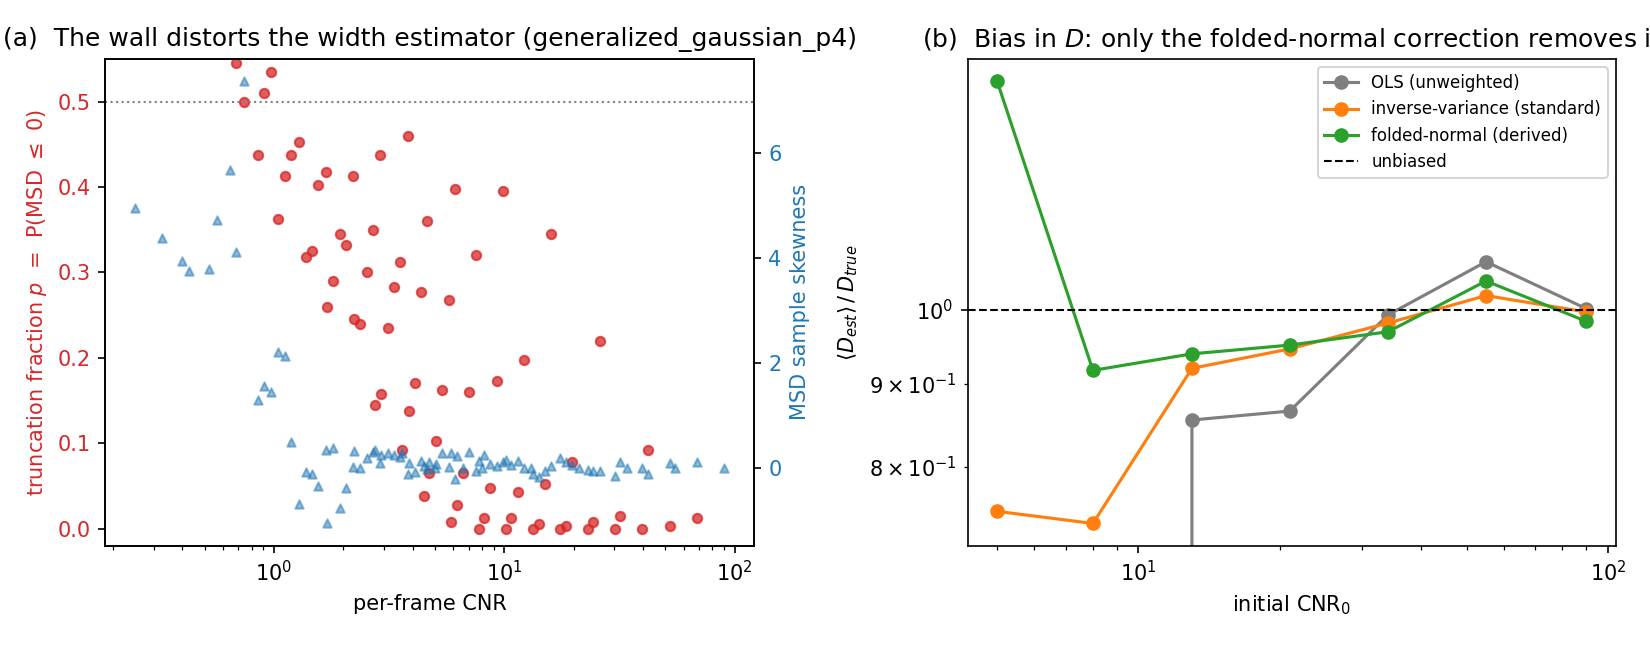
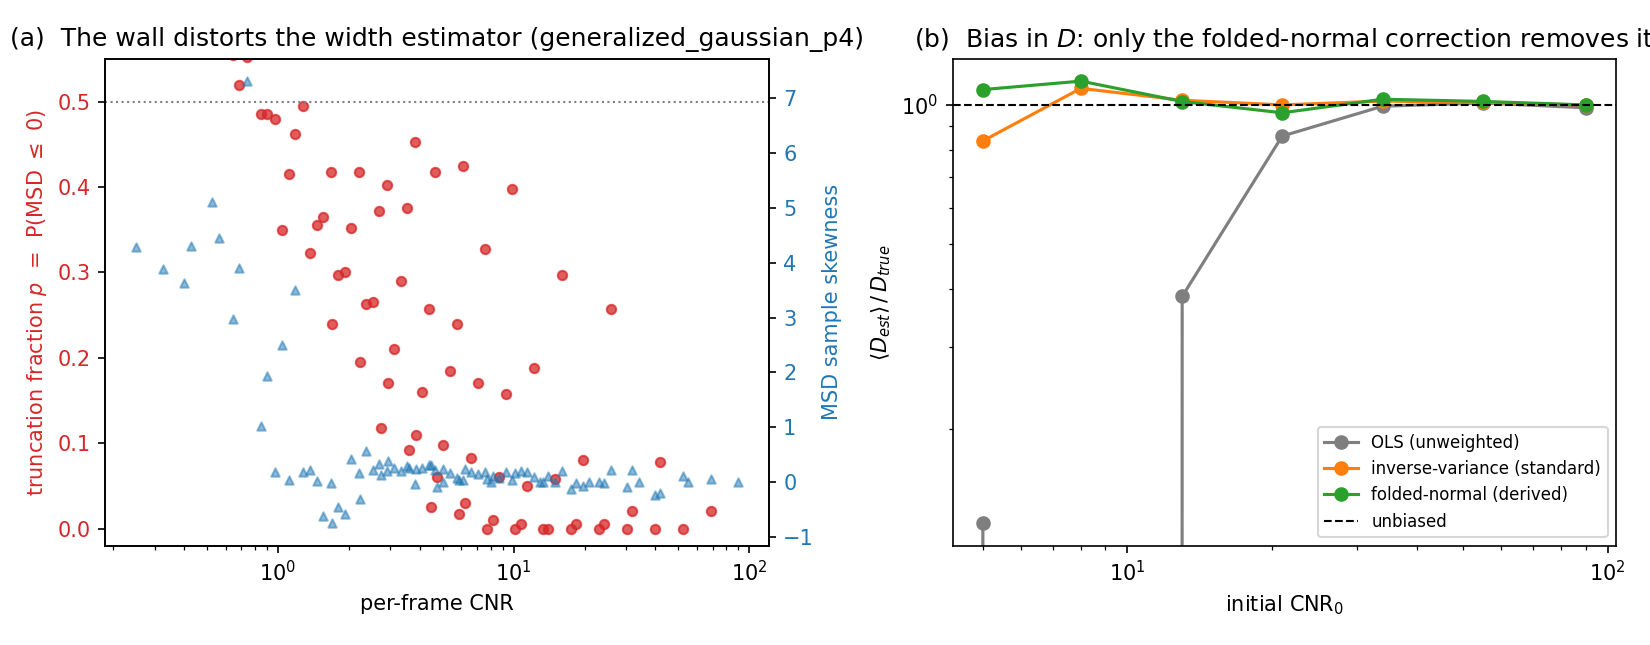
Regenerate the POC tables with the D-free calibration and combined SE, and print a computed verdict per scheme in place of the fixed reading (no folded-normal cell beyond 2 SE on any shape)

diff --git a/experiments/poc-bias-correction/poc_demo.py b/experiments/poc-bias-correction/poc_demo.py
@@ -37,10 +37,13 @@ from width_debias.bias_lookup import BiasLookup  # noqa: E402
 EXP = Experiment(sigma0=1.0, D=0.02, tau=1.0, n_frames=12, t_max=3.0)
 CNR0_GRID = np.array([5.0, 8.0, 13.0, 21.0, 34.0, 55.0, 90.0])
 N_RUNS = 400
+# Seeds are offset by 10^6 per shape so the shapes see independent noise; any
+# other spec (such as the bare p = 2 "generalized_gaussian") takes the next offset.
+SHAPES = ("gaussian", "voigt", "generalized_gaussian:1.5", "generalized_gaussian:4")
 
 
 def _profile_model_from_argv():
-    """Profile model selected by an optional command-line argument.
+    """Profile model selected by an optional command-line argument, and its seed offset.
 
     ``generalized_gaussian:<p>`` sets the shape exponent; the bare
     ``generalized_gaussian`` is p = 2, a Gaussian profile fitted by scale.
@@ -50,11 +53,12 @@ def _profile_model_from_argv():
         model = model_from_spec(spec)
     except ValueError as err:
         sys.exit(str(err))
-    return spec_tag(spec), model
+    offset = 10 ** 6 * (SHAPES.index(spec) if spec in SHAPES else len(SHAPES))
+    return spec_tag(spec), model, offset
 
 
 def main() -> None:
-    model_name, pmodel = _profile_model_from_argv()
+    model_name, pmodel, offset = _profile_model_from_argv()
     fwhm = 2.3548 * EXP.sigma0
     ld = np.sqrt(2.0 * EXP.D * EXP.tau)
     print("width-debias POC demo")
@@ -62,13 +66,14 @@ def main() -> None:
     print(f"  experiment: D={EXP.D}, tau={EXP.tau}, n_frames={EXP.n_frames}, "
           f"L_D/FWHM_0={ld / fwhm:.3f}")
     print(f"  CNR_0 sweep: {CNR0_GRID}")
-    print(f"  {N_RUNS} Monte Carlo runs per CNR_0\n")
+    print(f"  {N_RUNS} Monte Carlo runs per CNR_0; seeds: calibration {1 + offset} + i, "
+          f"evaluation {20000 + offset} + i\n")
 
     # Panel (a) diagnostic sweep at the experiment's own D: the MSD sign
     # fraction and skewness need a nonzero true MSD, so this sweep cannot be
     # the D = 0 one. It is not used by the correction.
     print("Diagnostic sweep for panel (a) ...")
-    stats = sweep_stats(EXP, CNR0_GRID, n_runs=N_RUNS, seed=1, model=pmodel)
+    stats = sweep_stats(EXP, CNR0_GRID, n_runs=N_RUNS, seed=1 + offset, model=pmodel)
 
     # The correction's calibration is D-free: the same sweep at D = 0, so the
     # lookup never uses the D being estimated (docs/DERIVATION.md section 8).
@@ -76,12 +81,12 @@ def main() -> None:
     model: BiasLookup = calibrate_d_free(
         CNR0_GRID, sigma0=EXP.sigma0, tau=EXP.tau, half_window=EXP.half_window,
         n_pixels=EXP.n_pixels, n_frames=EXP.n_frames, t_max=EXP.t_max,
-        amplitude0=EXP.amplitude0, n_runs=N_RUNS, seed=1, model=pmodel)
+        amplitude0=EXP.amplitude0, n_runs=N_RUNS, seed=1 + offset, model=pmodel)
 
     # Independent evaluation sweep (different seed).
     print("Evaluating schemes ...")
     results = evaluate(EXP, CNR0_GRID, model, n_runs=N_RUNS,
-                       seed=20000, profile_model=pmodel)
+                       seed=20000 + offset, profile_model=pmodel)
 
     # --- summary table ---------------------------------------------------
     # The combined SE adds the calibration's own Monte Carlo error, which is
@@ -102,12 +107,19 @@ def main() -> None:
     f = np.isfinite(ols) & np.isfinite(iv) & np.isfinite(fn)
     print(f"\n  mean |bias-1|  ols={np.nanmean(np.abs(ols[f] - 1)):.2f}  "
           f"inv-var={np.nanmean(np.abs(iv[f] - 1)):.3f}  "
-          f"folded-normal={np.nanmean(np.abs(fn[f] - 1)):.3f}")
-    print("  Reading: OLS is catastrophically biased at low CNR, and")
-    print("  inverse-variance weighting leaves a residual it cannot remove.")
-    print("  The folded-normal scheme subtracts the additive variance bias")
-    print("  (see docs/DERIVATION.md) and cuts the mean residual bias well")
-    print("  below inverse-variance; it can overcorrect in the deepest noise.")
+          f"folded-normal={np.nanmean(np.abs(fn[f] - 1)):.3f}  "
+          f"(Monte Carlo error alone would give "
+          f"{np.sqrt(2 / np.pi) * np.nanmean(fn_se[f]):.3f} for folded-normal)")
+    # The verdict is computed, not written in: which scheme leaves a resolved
+    # bias depends on the shape (p = 4's raw bias is small enough that
+    # inverse-variance weighting alone is close to unbiased).
+    z = (fn - 1.0) / fn_se
+    iv_se = results["inverse_variance"].spread / np.sqrt(N_RUNS)
+    z_iv = (iv - 1.0) / iv_se
+    print(f"  folded-normal cells beyond 2 combined SE: {int(np.sum(np.abs(z[f]) > 2))} "
+          f"of {int(f.sum())}")
+    print(f"  inverse-variance cells beyond 2 evaluation SE: "
+          f"{int(np.sum(np.abs(z_iv[f]) > 2))} of {int(f.sum())}")
 
     _plot(stats, results, model_name)
 

diff --git a/docs/REPO_MAP.md b/docs/REPO_MAP.md
@@ -22,7 +22,7 @@ output/              regenerated run outputs and cached calibrations (not tracke
 
 | Set | Scripts | Main result | Figure(s) |
 | ------- | ------- | ------- | ------- |
-| [poc-bias-correction](../experiments/poc-bias-correction/) | `poc_demo.py` | folded-normal mean \|bias-1\| over CNR0 13-90: 0.04-0.06 on Gaussian, Voigt, p = 1.5, p = 4; the CNR0 5-8 cells depend on the calibration draw | `poc_demo*.png` |
+| [poc-bias-correction](../experiments/poc-bias-correction/) | `poc_demo.py` | D-free calibration (400 runs): no folded-normal cell beyond 2 combined SE on any of the four shapes; inverse-variance leaves 1, 2, 4, and 0 of 7 cells beyond 2 SE (Gaussian, Voigt, p = 1.5, p = 4) | `poc_demo*.png` |
 | [boundary-diagnostic](../experiments/boundary-diagnostic/) | `diagnose_boundary.py` | the width fit reflects rather than clips at the lower bound, so the folded-normal route applies | `boundary_diagnostic*.png` |
 | [dfree-calibration](../experiments/dfree-calibration/) | `validate_d_zero.py`, `dense_calibration_and_test.py`, `calibration_se_check.py`, `weights_check.py`, `slope_fit_check.py`, `render_bias_panels.py` | corrected D: 4 of 140 cells beyond 2 combined SE (standard window) and 5 of 96 (short window), pooled bias within 0.8 combined SE on every shape; naive all frames 46 of 140 and 41 of 96, its bias exceeding the error of the mean after 15 to 91 (standard) or 47 to 652 (short) averaged measurements; calibration SE about equal to evaluation SE at equal runs and shared by every measurement, so calibration runs should exceed the number of measurements averaged; propagated calibration SE observed/predicted 0.89 over 16 draws; dense sweep pooled bias within 0.6 combined SE on four shapes, MAS fails high or low by shape below CNR0 about 6 | `.txt` tables, `poster_panel3_bias.png`, `poster_panel5_corrected_bias.png` |
 | [correction-floor](../experiments/correction-floor/) | `per_profile_floor.py`, `analytical_floor.py`, `per_frame_in_diffusion_experiment.py`, `render_floor_panel.py` | per-profile floor at tolerance 0.3 x 2 D t_max (D = 0.02 sigma_0^2/tau): CNR 1.16 (Gaussian, Voigt), 1.51 (p = 1.5), 0.89 (p = 4), residual and calibration SE both counted; Fisher A matches Monte Carlo to 0.986-1.006 and the A/CNR^2 model departs at CNR about 1.18 (0.85 for Voigt) | `.txt` tables, `poster_panel5_floor.png` |

diff --git a/experiments/poc-bias-correction/README.md b/experiments/poc-bias-correction/README.md
@@ -34,20 +34,21 @@ folder are the current results.
 
 ## Key result + figure
 
-The committed tables below were produced with a D-aware calibration (the sweep
-run at the evaluation D = 0.02) and an evaluation-only SE. The script now
-calibrates D-free (`calibrate_d_free`, D = 0) and prints the combined SE
-(evaluation and calibration); the tables are to be regenerated with it.
-
-D = 0.02, 400 runs per CNR_0, each table with the folded-normal cell's Monte
-Carlo SE. Over CNR_0 13 to 90 the folded-normal mean `|mean(D_hat)/D_ref - 1|`
-is 0.052 (Gaussian), 0.056 (Voigt), 0.048 (generalized-Gaussian p = 1.5), and
-0.040 (p = 4). The CNR_0 5 and 8 cells depend on the calibration draw (this
-script's calibration is 7 CNR_0 points x 400 runs): the Gaussian CNR_0 5 cell is
-3.7 +/- 1.7 here, so the mean over the whole sweep (0.47 Gaussian, 0.30 Voigt,
-0.47 p = 1.5, 0.095 p = 4) is not a stable headline. OLS is inflated 46-fold at
-CNR_0 5 for the Gaussian; the p = 4 fit is barely biased (OLS mean 0.39) and
-reads low, not high, at CNR_0 <= 8.
+D = 0.02 σ₀²/τ, 400 runs per CNR₀. The calibration is D-free
+(`calibrate_d_free` at D = 0, 7 CNR₀ points × 400 runs), with calibration and
+evaluation seeds disjoint and offset by 10⁶ per shape. Each table gives the
+folded-normal cell's combined SE (evaluation and calibration). No folded-normal
+cell lies beyond 2 combined SE on any shape (0 of 7 each). Inverse-variance
+weighting leaves 1 (Gaussian), 2 (Voigt), 4 (p = 1.5), and 0 (p = 4) of 7 cells
+beyond 2 evaluation SE. The mean `|mean(D_hat)/D_ref - 1|` over the sweep is
+0.291 folded-normal against 0.368 inverse-variance (Gaussian), 0.093 against
+0.279 (Voigt), 0.081 against 0.261 (p = 1.5), and 0.043 against 0.043 (p = 4);
+Monte Carlo error alone would give 0.143, 0.099, 0.118, and 0.047 for
+folded-normal. The Gaussian mean is set by the CNR₀ 5 cell, 2.67 ± 0.86
+combined SE (1.9 SE from 1). OLS is inflated 46-fold at CNR₀ 5
+for the Gaussian. The p = 4 OLS fit reads low at CNR₀ ≤ 21 (0.13 at CNR₀ 5),
+and the p = 4 bias is small enough that inverse-variance weighting alone
+leaves no cell beyond 2 SE.
 
 Tables: `poc_demo_gaussian.txt`, `poc_demo_voigt.txt`,
 `poc_demo_generalized_gaussian_p1.5.txt`, `poc_demo_generalized_gaussian_p4.txt`.
